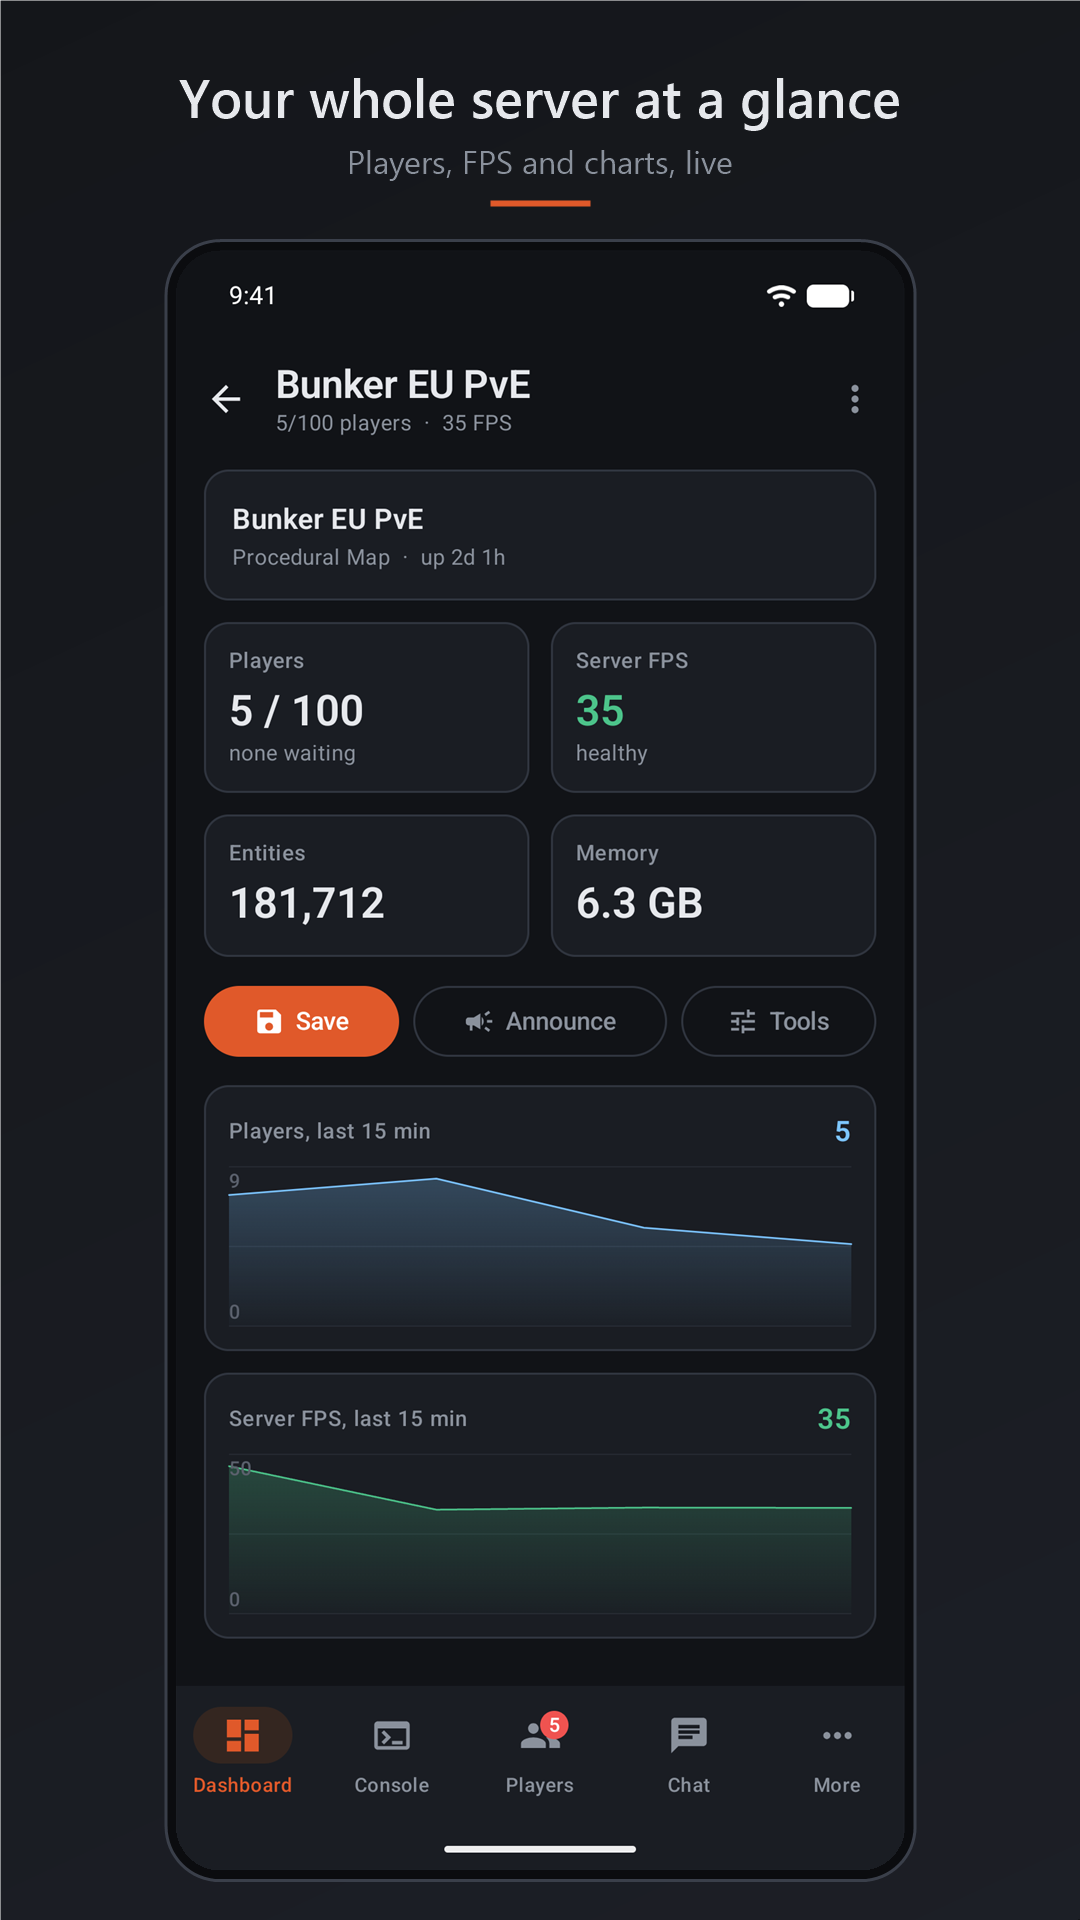
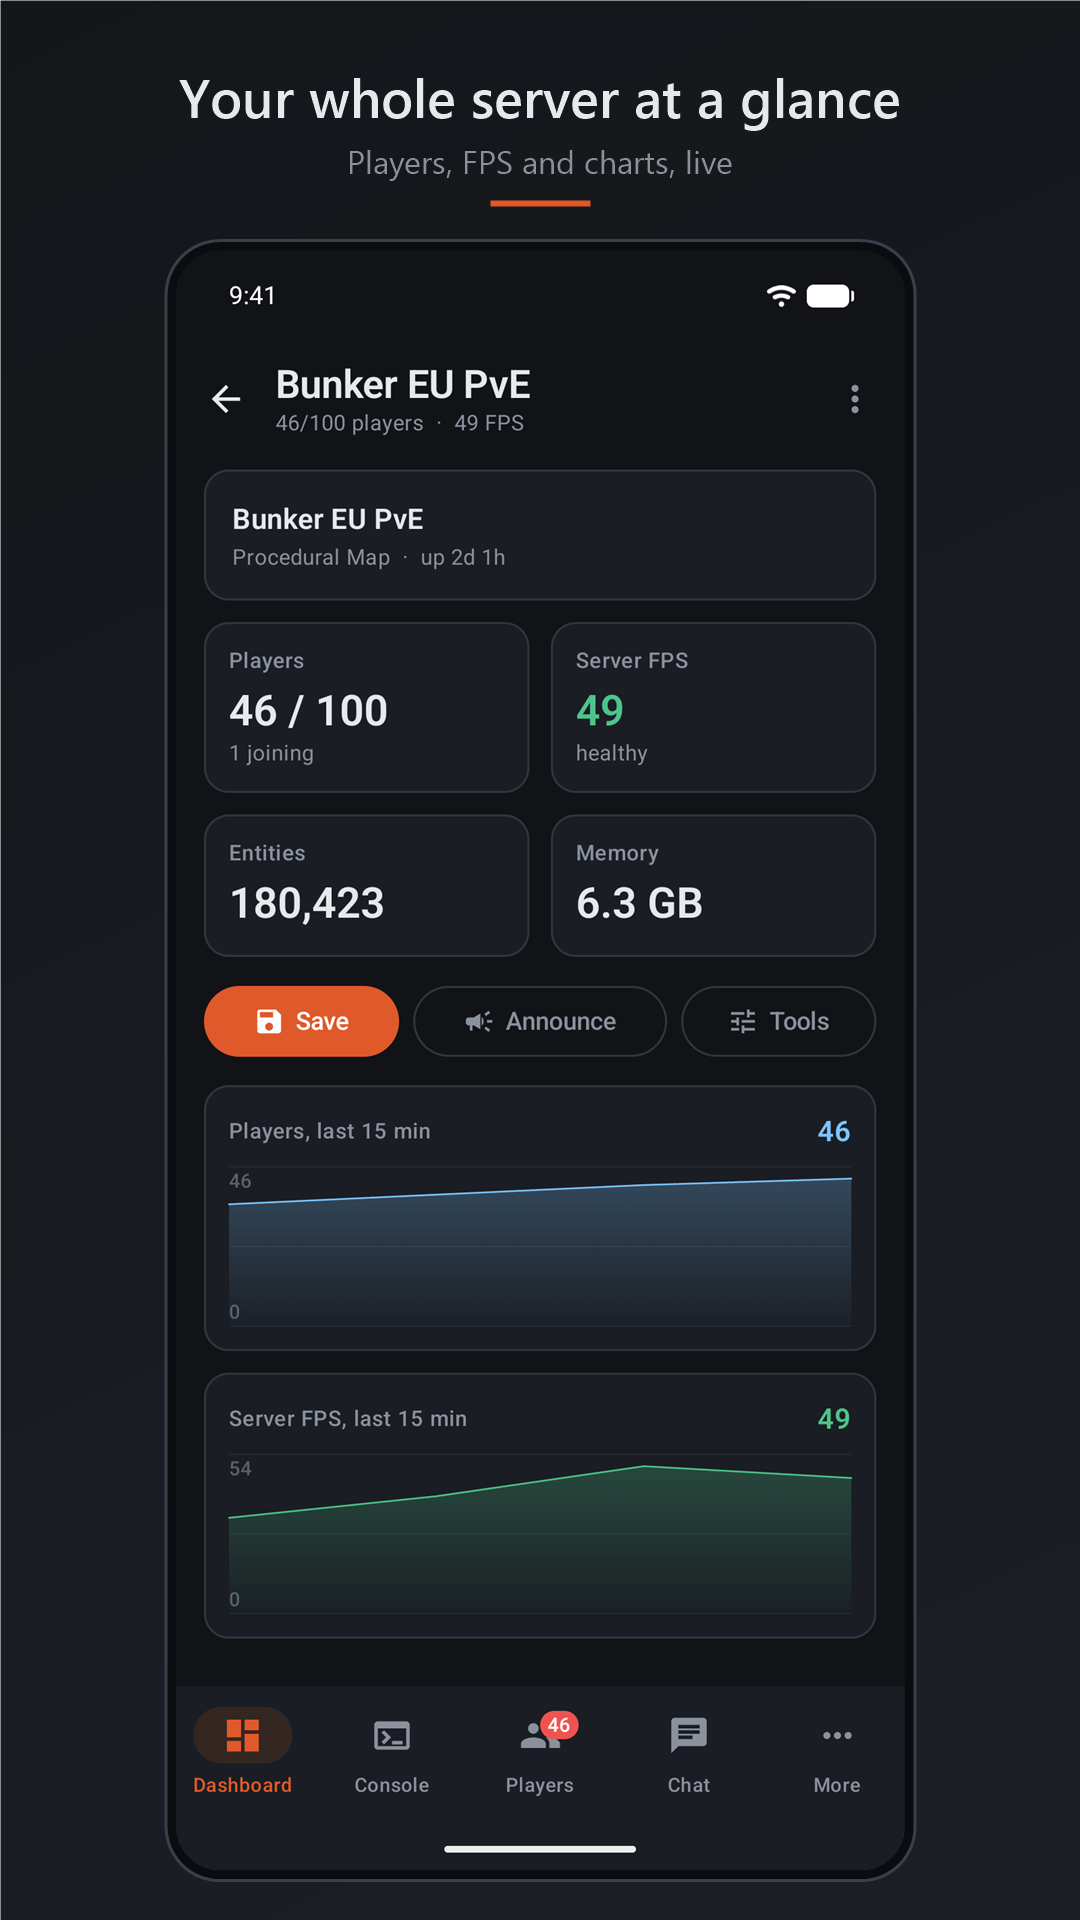
Store images: a busier server with "1 joining"; mock server can set players and joining
The dashboard screenshot now shows 46 players with 1 joining instead of an almost empty server
with nobody waiting, and the overview shows two busy servers. The test server gained
--players and --joining so the numbers in screenshots are chosen, not random.

diff --git a/tools/mock-rcon-server.js b/tools/mock-rcon-server.js
@@ -1,7 +1,7 @@
 #!/usr/bin/env node
 // A pretend Rust WebRCON server for testing Bunker without a real game server. No dependencies.
 //
-//   node tools/mock-rcon-server.js [--port 28016] [--password test] [--name "My Server"] [--noplugin] [--fast]
+//   node tools/mock-rcon-server.js [--port 28016] [--password test] [--name "My Server"] [--players 6] [--joining 1] [--noplugin] [--fast]
 //
 // From the Android emulator the host PC is 10.0.2.2, so add a server with address 10.0.2.2, port 28016, password "test".
 // It answers serverinfo / playerlist / banlistex and common admin commands, sends console noise and chat,
@@ -16,6 +16,8 @@ const PORT = parseInt(arg('port', '28016'), 10);
 const PASSWORD = arg('password', 'test');
 const NO_PLUGIN = flag('noplugin');
 const FAST = flag('fast');
+const START_PLAYERS = parseInt(arg('players', '6'), 10);   // how many players are online at the start
+const JOINING = parseInt(arg('joining', '-1'), 10);       // -1 = random, otherwise always this many joining
 const NAME = arg('name', 'Bunker Test Server [PVE x2]');
 const fs = require('fs');
 const path = require('path');
@@ -36,11 +38,11 @@ function addPlayer(name) {
   return p;
 }
 function rand(n) { return Math.floor(Math.random() * n); }
-for (let i = 0; i < 6; i++) { const p = addPlayer(); p.joined -= rand(7200) * 1000; }
+for (let i = 0; i < START_PLAYERS; i++) { const p = addPlayer(); p.joined -= rand(7200) * 1000; }
 
 function serverInfo() {
   return JSON.stringify({
-    Hostname: NAME, MaxPlayers: maxPlayers, Players: players.length, Queued: 0, Joining: rand(3) === 0 ? 1 : 0,
+    Hostname: NAME, MaxPlayers: maxPlayers, Players: players.length, Queued: 0, Joining: JOINING >= 0 ? JOINING : (rand(3) === 0 ? 1 : 0),
     EntityCount: 180000 + rand(2000), GameTime: `${String(timeHour).padStart(2, '0')}:00:00`, Uptime: Math.floor((Date.now() - started) / 1000) + 86400 * 2 + 5000,
     Map: 'Procedural Map', Framerate: Math.round((30 + Math.random() * 28) * 10) / 10, Memory: 6200 + rand(300), MemoryUsageSystem: 8400, Collections: 12, NetworkIn: 100, NetworkOut: 200, Restarting: false, SaveCreatedTime: new Date().toISOString(),
   });

diff --git a/README.md b/README.md
@@ -211,6 +211,7 @@ cd Bunker-Android
 node tools/mock-rcon-server.js                       # port 28016, password "test"
 node tools/mock-rcon-server.js --port 28017 --name "US Vanilla"   # a second server for Multi Server
 node tools/mock-rcon-server.js --noplugin            # pretend the BunkerChat plugin is missing
+node tools/mock-rcon-server.js --players 40 --joining 1 --fast   # a busy server (handy for screenshots)
 ```
 
 It answers `serverinfo`, `playerlist`, `banlistex`, a real Carbon plugin list and the common admin commands, sends console noise and chat, and makes players come and go. From the Android emulator the host PC is **`10.0.2.2`**, so add a server with address `10.0.2.2`, port `28016`, password `test`. A wrong password gets the socket closed at once, like Rust does.
